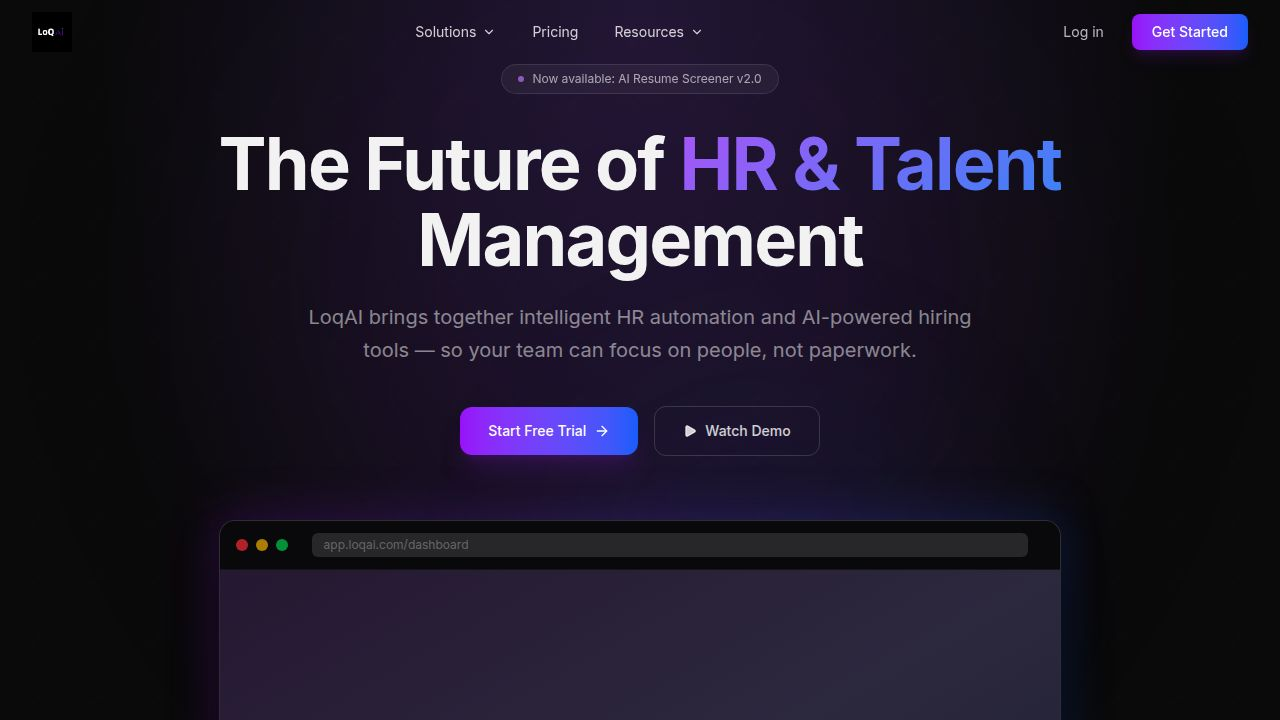
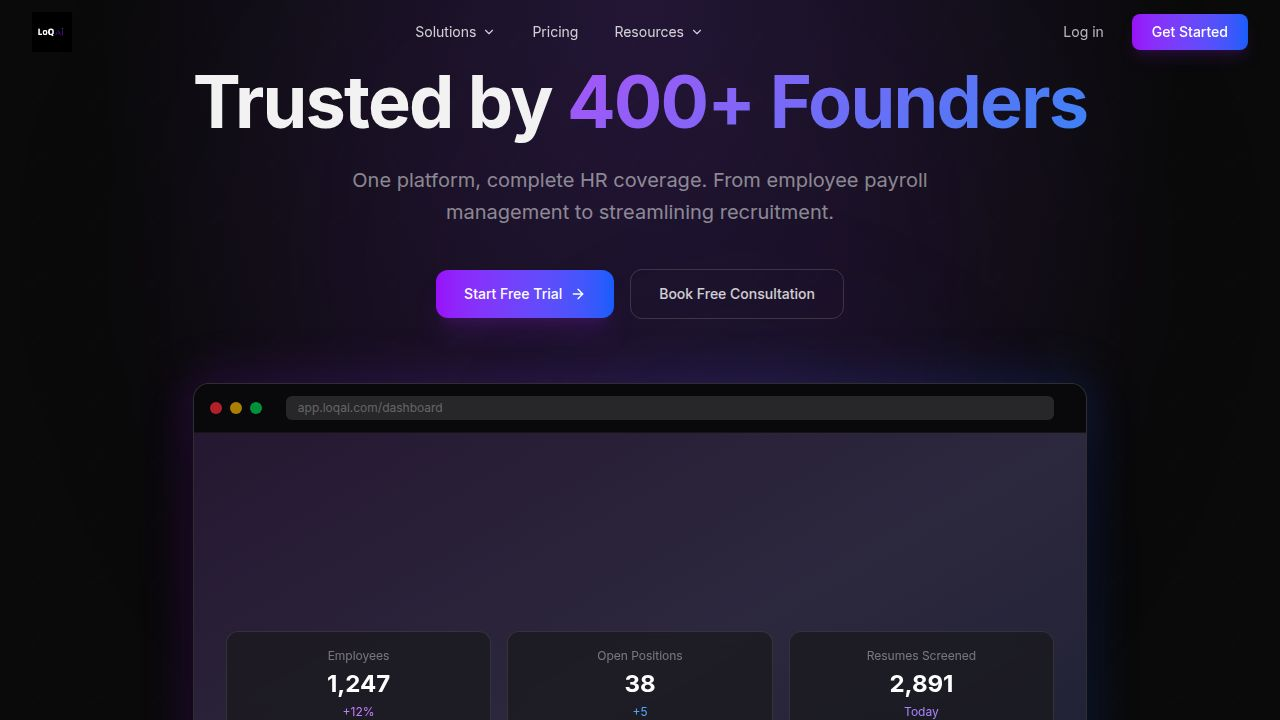
Add custom solutions as a new product offering
Add new routes, navbar items, and mockups for the "Loq Custom Solutions" product, including sub-pages for Custom Web Apps, Mobile Development, API Integrations, Business Intelligence, and Digital Consulting.

Replit-Commit-Author: Agent
Replit-Commit-Session-Id: 35fc136c-3991-4940-b4e6-9c016db0de61
Replit-Commit-Checkpoint-Type: full_checkpoint
Replit-Commit-Event-Id: 4bfd181f-e1ee-4366-a8a7-11ffe589ee99
Replit-Commit-Screenshot-Url: https://storage.googleapis.com/screenshot-production-us-central1/8bc3d688-1688-474f-8745-8c8247b231a5/35fc136c-3991-4940-b4e6-9c016db0de61/EwCf4M5
Replit-Helium-Checkpoint-Created: true

Changed region(s): [[0.125, 0.0917, 0.875, 1.0], [0.25, 0.8861, 0.3125, 1.0]]

diff --git a/artifacts/loqai-website/src/components/mockups/CustomSolutionsMockup.tsx b/artifacts/loqai-website/src/components/mockups/CustomSolutionsMockup.tsx
@@ -1,0 +1,139 @@
+interface Props {
+  variant?: string;
+}
+
+const variantConfig: Record<string, {
+  title: string;
+  phase: string;
+  progress: number;
+  tasks: { label: string; done: boolean }[];
+  stack: string[];
+}> = {
+  "custom-web-apps": {
+    title: "Client Portal — FinServe Ltd.",
+    phase: "Development · Sprint 4 of 6",
+    progress: 67,
+    tasks: [
+      { label: "Authentication & SSO", done: true },
+      { label: "Dashboard & analytics", done: true },
+      { label: "Document management", done: true },
+      { label: "Role-based access control", done: false },
+      { label: "Client reporting module", done: false },
+    ],
+    stack: ["React", "Node.js", "PostgreSQL", "AWS"],
+  },
+  "mobile-development": {
+    title: "Delivery App — SwiftMove",
+    phase: "QA & Testing · Sprint 5 of 5",
+    progress: 90,
+    tasks: [
+      { label: "Driver & customer apps", done: true },
+      { label: "Real-time GPS tracking", done: true },
+      { label: "Push notifications", done: true },
+      { label: "Payment integration", done: true },
+      { label: "App store submission", done: false },
+    ],
+    stack: ["React Native", "Firebase", "Stripe", "Google Maps"],
+  },
+  "api-integrations": {
+    title: "ERP Integration — ManufactCo",
+    phase: "Integration · Phase 2 of 3",
+    progress: 55,
+    tasks: [
+      { label: "SAP data mapping", done: true },
+      { label: "REST API gateway", done: true },
+      { label: "Webhook event system", done: false },
+      { label: "Data sync & validation", done: false },
+      { label: "Monitoring & alerting", done: false },
+    ],
+    stack: ["Node.js", "SAP", "Redis", "Datadog"],
+  },
+  "business-intelligence": {
+    title: "BI Dashboard — RetailGroup",
+    phase: "Delivery · Final Review",
+    progress: 85,
+    tasks: [
+      { label: "Data warehouse setup", done: true },
+      { label: "ETL pipelines", done: true },
+      { label: "Executive dashboards", done: true },
+      { label: "Predictive analytics", done: true },
+      { label: "User training & handoff", done: false },
+    ],
+    stack: ["Power BI", "Snowflake", "Python", "dbt"],
+  },
+  "digital-consulting": {
+    title: "Digital Strategy — HealthCorp",
+    phase: "Discovery & Architecture",
+    progress: 30,
+    tasks: [
+      { label: "Stakeholder interviews", done: true },
+      { label: "Technical audit", done: true },
+      { label: "Architecture blueprint", done: false },
+      { label: "Tech stack recommendation", done: false },
+      { label: "Roadmap & delivery plan", done: false },
+    ],
+    stack: ["Architecture", "Cloud", "Security", "Agile"],
+  },
+};
+
+export default function CustomSolutionsMockup({ variant = "custom-web-apps" }: Props) {
+  const config = variantConfig[variant] ?? variantConfig["custom-web-apps"];
+
+  return (
+    <div className="p-5">
+      <div className="flex items-center justify-between mb-5">
+        <div>
+          <p className="text-white/80 text-sm font-semibold">{config.title}</p>
+          <p className="text-white/35 text-xs mt-0.5">{config.phase}</p>
+        </div>
+        <span className="px-2.5 py-1 bg-purple-500/15 border border-purple-500/25 text-purple-400 text-xs font-medium rounded-full">
+          In Progress
+        </span>
+      </div>
+
+      <div className="mb-5">
+        <div className="flex items-center justify-between mb-1.5">
+          <span className="text-xs text-white/40">Overall progress</span>
+          <span className="text-xs font-semibold text-white/70">{config.progress}%</span>
+        </div>
+        <div className="h-1.5 bg-zinc-800 rounded-full overflow-hidden">
+          <div
+            className="h-full bg-gradient-to-r from-purple-600 to-blue-500 rounded-full transition-all"
+            style={{ width: `${config.progress}%` }}
+          />
+        </div>
+      </div>
+
+      <div className="space-y-2 mb-5">
+        {config.tasks.map((task) => (
+          <div key={task.label} className="flex items-center gap-2.5">
+            <div className={`w-4 h-4 rounded-full flex items-center justify-center flex-shrink-0 ${task.done ? "bg-green-500/20 border border-green-500/40" : "border border-white/15"}`}>
+              {task.done && (
+                <svg width="8" height="8" viewBox="0 0 12 12" fill="none">
+                  <path d="M2 6l3 3 5-5" stroke="#4ade80" strokeWidth="1.5" strokeLinecap="round" strokeLinejoin="round"/>
+                </svg>
+              )}
+            </div>
+            <span className={`text-xs ${task.done ? "text-white/50 line-through" : "text-white/75"}`}>
+              {task.label}
+            </span>
+          </div>
+        ))}
+      </div>
+
+      <div className="border-t border-white/8 pt-4">
+        <p className="text-xs text-white/30 mb-2">Tech Stack</p>
+        <div className="flex flex-wrap gap-1.5">
+          {config.stack.map((tech) => (
+            <span
+              key={tech}
+              className="px-2.5 py-1 bg-zinc-800/80 border border-white/8 text-white/55 text-xs rounded-lg"
+            >
+              {tech}
+            </span>
+          ))}
+        </div>
+      </div>
+    </div>
+  );
+}

diff --git a/artifacts/loqai-website/src/data/featurePages.ts b/artifacts/loqai-website/src/data/featurePages.ts
@@ -10,7 +10,7 @@ export interface StatItem {
 
 export interface FeaturePage {
   slug: string;
-  product: "LoqHRMS" | "LoqTalent" | "LoqBot";
+  product: "LoqHRMS" | "LoqTalent" | "LoqBot" | "Loq Custom Solutions";
   productSlug: string;
   title: string;
   tagline: string;
@@ -502,6 +502,136 @@ export const featurePages: FeaturePage[] = [
       { value: "14 days", label: "Average time to launch" },
     ],
     mockupType: "loqbot-custom",
+  },
+  {
+    slug: "custom-web-apps",
+    product: "Loq Custom Solutions",
+    productSlug: "custom",
+    title: "Custom Web Apps",
+    tagline: "Your vision. Our engineering. Built to last.",
+    description:
+      "We design and build bespoke web applications tailored exactly to your business requirements — from internal tools and client portals to full-scale SaaS platforms.",
+    heroDescription:
+      "No off-the-shelf compromises. Every line of code is written for your specific workflows, your users, and your growth trajectory.",
+    accentColor: "purple",
+    features: [
+      { title: "Requirements Discovery", description: "We start with deep discovery sessions to map your exact requirements, user journeys, and business logic before writing a single line of code." },
+      { title: "UI/UX Design", description: "Custom design systems crafted by experienced designers — visually polished, accessible, and aligned with your brand identity." },
+      { title: "Scalable Architecture", description: "Built on proven, scalable architectures so your platform grows with your business — from 100 to 100,000 users without breaking." },
+      { title: "Agile Delivery", description: "We deliver in sprints with regular demos, so you see progress every 2 weeks and can provide feedback continuously." },
+      { title: "QA & Testing", description: "Rigorous automated and manual testing ensures your product is stable, secure, and bug-free before it ever reaches your users." },
+      { title: "Ongoing Support", description: "Post-launch support, maintenance, and feature development — we're your long-term technology partner, not just a vendor." },
+    ],
+    stats: [
+      { value: "50+", label: "Custom apps delivered" },
+      { value: "2 wks", label: "Sprint delivery cadence" },
+      { value: "99.9%", label: "Uptime SLA" },
+    ],
+    mockupType: "custom-web-apps",
+  },
+  {
+    slug: "mobile-development",
+    product: "Loq Custom Solutions",
+    productSlug: "custom",
+    title: "Mobile Development",
+    tagline: "iOS & Android apps that people actually love using.",
+    description:
+      "We build high-performance native and cross-platform mobile apps — from MVPs to enterprise-grade solutions — with polished UX that drives engagement and retention.",
+    heroDescription:
+      "Whether you need a consumer app or an internal mobile tool, our team delivers mobile experiences that are fast, intuitive, and built to scale.",
+    accentColor: "purple",
+    features: [
+      { title: "Cross-Platform Development", description: "We build for iOS and Android simultaneously using React Native, reducing cost and time without sacrificing performance." },
+      { title: "Offline-First Architecture", description: "Apps designed to work without internet connectivity — syncing seamlessly when the connection is restored." },
+      { title: "Push Notifications", description: "Intelligent notification systems that re-engage users at the right moment with personalised, contextual messages." },
+      { title: "App Store Submission", description: "We handle the full App Store and Google Play submission process — compliance, metadata, screenshots, and review management." },
+      { title: "Performance Optimisation", description: "Every app is profiled and optimised for battery life, memory usage, and render performance on a range of devices." },
+      { title: "Analytics Integration", description: "Built-in analytics from day one — track feature usage, funnels, and user behaviour to continuously improve the product." },
+    ],
+    stats: [
+      { value: "30+", label: "Apps launched" },
+      { value: "4.8★", label: "Average app store rating" },
+      { value: "2×", label: "Faster than native builds" },
+    ],
+    mockupType: "mobile-development",
+  },
+  {
+    slug: "api-integrations",
+    product: "Loq Custom Solutions",
+    productSlug: "custom",
+    title: "API & Integrations",
+    tagline: "Connect your systems. Eliminate data silos. Move faster.",
+    description:
+      "We build custom API layers and integrations that connect your existing tools — ERPs, CRMs, payment gateways, and third-party services — into one seamless data ecosystem.",
+    heroDescription:
+      "Stop copying data between systems manually. Our integration specialists build the connective tissue that makes your entire tech stack work as one.",
+    accentColor: "purple",
+    features: [
+      { title: "REST & GraphQL APIs", description: "Custom API design and development — RESTful services or GraphQL endpoints, built to industry standards and secured by default." },
+      { title: "Third-Party Integrations", description: "We connect your systems to Salesforce, HubSpot, SAP, Xero, Stripe, and hundreds of other platforms via official and custom integrations." },
+      { title: "Webhook Architecture", description: "Real-time event-driven systems using webhooks — so your tools react instantly when something changes anywhere in your stack." },
+      { title: "Data Transformation", description: "Custom ETL pipelines that clean, transform, and route data between systems in the exact format each platform needs." },
+      { title: "API Gateway & Security", description: "Rate limiting, authentication, and API key management — your integrations are secure, monitored, and production-ready." },
+      { title: "Monitoring & Alerting", description: "24/7 monitoring of all integration endpoints with instant alerts when something fails — before your users notice." },
+    ],
+    stats: [
+      { value: "100+", label: "APIs & integrations built" },
+      { value: "<50ms", label: "Average API response time" },
+      { value: "99.95%", label: "Integration uptime" },
+    ],
+    mockupType: "api-integrations",
+  },
+  {
+    slug: "business-intelligence",
+    product: "Loq Custom Solutions",
+    productSlug: "custom",
+    title: "Business Intelligence",
+    tagline: "Turn your data into decisions. At scale.",
+    description:
+      "We build custom BI solutions — from data warehouses and ETL pipelines to executive dashboards and predictive analytics — that give your leadership team the clarity to act with confidence.",
+    heroDescription:
+      "Stop guessing. We transform raw business data into real-time insights, custom dashboards, and predictive models that drive smarter decisions every day.",
+    accentColor: "purple",
+    features: [
+      { title: "Data Warehouse Setup", description: "We architect and implement your cloud data warehouse — Snowflake, BigQuery, or Redshift — designed for performance and cost efficiency." },
+      { title: "ETL Pipelines", description: "Automated pipelines that extract data from all your sources, transform it consistently, and load it into your warehouse on schedule." },
+      { title: "Executive Dashboards", description: "Custom dashboards that surface the KPIs that matter most to your leadership team — live, drill-downable, and beautifully presented." },
+      { title: "Self-Service Analytics", description: "Empower your teams to explore data independently with governed self-service tools — no SQL required." },
+      { title: "Predictive Analytics", description: "Machine learning models that forecast demand, churn, revenue, and more — built on your own historical data." },
+      { title: "Data Governance", description: "Data cataloguing, lineage tracking, and quality controls ensure your insights are always accurate and trustworthy." },
+    ],
+    stats: [
+      { value: "10×", label: "Faster reporting cycles" },
+      { value: "40%", label: "Average cost reduction vs. manual" },
+      { value: "Real-time", label: "Dashboard refresh rate" },
+    ],
+    mockupType: "business-intelligence",
+  },
+  {
+    slug: "digital-consulting",
+    product: "Loq Custom Solutions",
+    productSlug: "custom",
+    title: "Digital Consulting",
+    tagline: "Clarity before code. Strategy before spend.",
+    description:
+      "Before you build, know exactly what to build. Our consulting team helps you define your digital strategy, choose the right technology stack, and create a clear roadmap to execution.",
+    heroDescription:
+      "We've helped dozens of founders and executives avoid expensive mistakes by getting the architecture, priorities, and technology choices right from day one.",
+    accentColor: "purple",
+    features: [
+      { title: "Technical Discovery", description: "Deep-dive workshops with your team to document requirements, map user journeys, and define the full scope of your digital initiative." },
+      { title: "Architecture Design", description: "A clear, documented technical architecture — system design, data models, API contracts, and infrastructure blueprint — before development begins." },
+      { title: "Tech Stack Advisory", description: "Unbiased recommendations on the right technologies for your specific context — budget, scale, team, and long-term flexibility." },
+      { title: "Build vs. Buy Analysis", description: "Objective evaluation of whether to build custom, buy off-the-shelf, or integrate existing tools — with a full cost and risk comparison." },
+      { title: "Delivery Roadmap", description: "A phased, prioritised delivery roadmap that gets you to market faster and de-risks the development journey." },
+      { title: "Vendor Selection", description: "If you're evaluating vendors or agencies, we help you define criteria, run RFPs, and assess proposals with expert eyes." },
+    ],
+    stats: [
+      { value: "60+", label: "Consulting engagements" },
+      { value: "3 wks", label: "Typical discovery timeline" },
+      { value: "100%", label: "Clients who say it was worth it" },
+    ],
+    mockupType: "digital-consulting",
   },
 ];
 

diff --git a/artifacts/loqai-website/src/components/Navbar.tsx b/artifacts/loqai-website/src/components/Navbar.tsx
@@ -35,6 +35,18 @@ const solutionsMenu = [
       { label: "Custom Chatbot", desc: "Built for your exact needs", href: "/solutions/loqbot/custom-chatbot" },
     ],
   },
+  {
+    product: "Loq Custom Solutions",
+    description: "Tailored software built for you",
+    isNew: false,
+    items: [
+      { label: "Custom Web Apps", desc: "Bespoke platforms built from scratch", href: "/solutions/custom/custom-web-apps" },
+      { label: "Mobile Development", desc: "iOS & Android apps, expertly crafted", href: "/solutions/custom/mobile-development" },
+      { label: "API & Integrations", desc: "Connect your tools seamlessly", href: "/solutions/custom/api-integrations" },
+      { label: "Business Intelligence", desc: "Dashboards & data that drive decisions", href: "/solutions/custom/business-intelligence" },
+      { label: "Digital Consulting", desc: "Strategy, architecture & roadmapping", href: "/solutions/custom/digital-consulting" },
+    ],
+  },
 ];
 
 const resourcesMenu = [
@@ -98,7 +110,7 @@ export default function Navbar() {
                 />
               </button>
               {activeMenu === "solutions" && (
-                <div className="absolute top-full left-1/2 -translate-x-1/2 mt-2 w-[860px] bg-zinc-900 border border-white/10 rounded-2xl shadow-2xl p-4 grid grid-cols-3 gap-4">
+                <div className="absolute top-full left-1/2 -translate-x-1/2 mt-2 w-[820px] bg-zinc-900 border border-white/10 rounded-2xl shadow-2xl p-4 grid grid-cols-2 gap-x-6 gap-y-5">
                   {solutionsMenu.map((product) => (
                     <div key={product.product}>
                       <div className="mb-3">
@@ -229,6 +241,19 @@ export default function Navbar() {
               <span className="px-1.5 py-0.5 bg-blue-600 text-white text-[10px] font-bold rounded-full leading-none">NEW</span>
             </div>
             {solutionsMenu[2].items.map((item) => (
+              <a
+                key={item.label}
+                href={item.href}
+                onClick={() => setMobileOpen(false)}
+                className="block py-2 text-sm text-white/70 hover:text-white"
+              >
+                {item.label}
+              </a>
+            ))}
+            <p className="text-xs font-semibold text-purple-400 uppercase tracking-wider mb-2 mt-3">
+              Loq Custom Solutions
+            </p>
+            {solutionsMenu[3].items.map((item) => (
               <a
                 key={item.label}
                 href={item.href}

diff --git a/artifacts/loqai-website/src/App.tsx b/artifacts/loqai-website/src/App.tsx
@@ -57,6 +57,23 @@ function Router() {
         <FeatureDetailPage slug="custom-chatbot" />
       </Route>
 
+      {/* Loq Custom Solutions pages */}
+      <Route path="/solutions/custom/custom-web-apps">
+        <FeatureDetailPage slug="custom-web-apps" />
+      </Route>
+      <Route path="/solutions/custom/mobile-development">
+        <FeatureDetailPage slug="mobile-development" />
+      </Route>
+      <Route path="/solutions/custom/api-integrations">
+        <FeatureDetailPage slug="api-integrations" />
+      </Route>
+      <Route path="/solutions/custom/business-intelligence">
+        <FeatureDetailPage slug="business-intelligence" />
+      </Route>
+      <Route path="/solutions/custom/digital-consulting">
+        <FeatureDetailPage slug="digital-consulting" />
+      </Route>
+
       <Route component={NotFound} />
     </Switch>
   );

diff --git a/artifacts/loqai-website/src/pages/FeatureDetailPage.tsx b/artifacts/loqai-website/src/pages/FeatureDetailPage.tsx
@@ -12,12 +12,18 @@ import ATSMockup from "@/components/mockups/ATSMockup";
 import ScreenerMockup from "@/components/mockups/ScreenerMockup";
 import TalentMockup from "@/components/mockups/TalentMockup";
 import LoqBotMockup from "@/components/mockups/LoqBotMockup";
+import CustomSolutionsMockup from "@/components/mockups/CustomSolutionsMockup";
 
 function LoqBotHotel() { return <LoqBotMockup variant="loqbot-hotel" />; }
 function LoqBotRestaurant() { return <LoqBotMockup variant="loqbot-restaurant" />; }
 function LoqBotEcommerce() { return <LoqBotMockup variant="loqbot-ecommerce" />; }
 function LoqBotRealEstate() { return <LoqBotMockup variant="loqbot-realestate" />; }
 function LoqBotCustom() { return <LoqBotMockup variant="default" />; }
+function CustomWebApps() { return <CustomSolutionsMockup variant="custom-web-apps" />; }
+function CustomMobile() { return <CustomSolutionsMockup variant="mobile-development" />; }
+function CustomAPI() { return <CustomSolutionsMockup variant="api-integrations" />; }
+function CustomBI() { return <CustomSolutionsMockup variant="business-intelligence" />; }
+function CustomConsulting() { return <CustomSolutionsMockup variant="digital-consulting" />; }
 
 const mockupComponents: Record<string, React.ComponentType> = {
   attendance: AttendanceMockup,
@@ -32,6 +38,11 @@ const mockupComponents: Record<string, React.ComponentType> = {
   "loqbot-ecommerce": LoqBotEcommerce,
   "loqbot-realestate": LoqBotRealEstate,
   "loqbot-custom": LoqBotCustom,
+  "custom-web-apps": CustomWebApps,
+  "mobile-development": CustomMobile,
+  "api-integrations": CustomAPI,
+  "business-intelligence": CustomBI,
+  "digital-consulting": CustomConsulting,
 };
 
 interface Props {